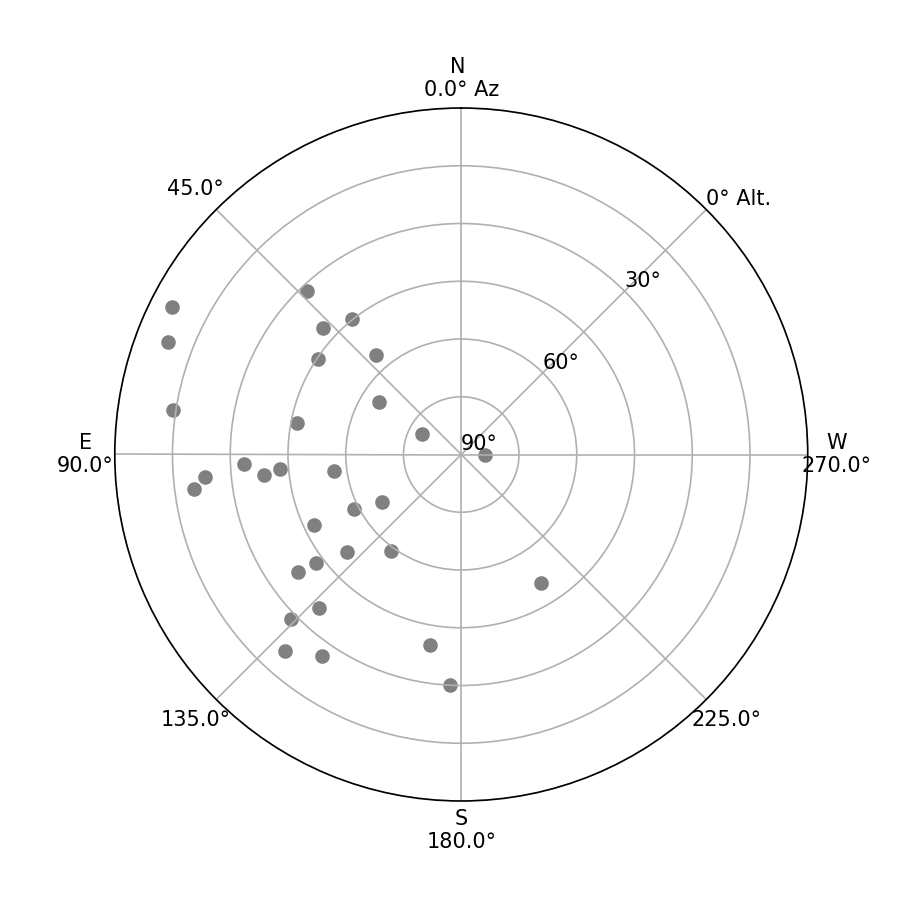
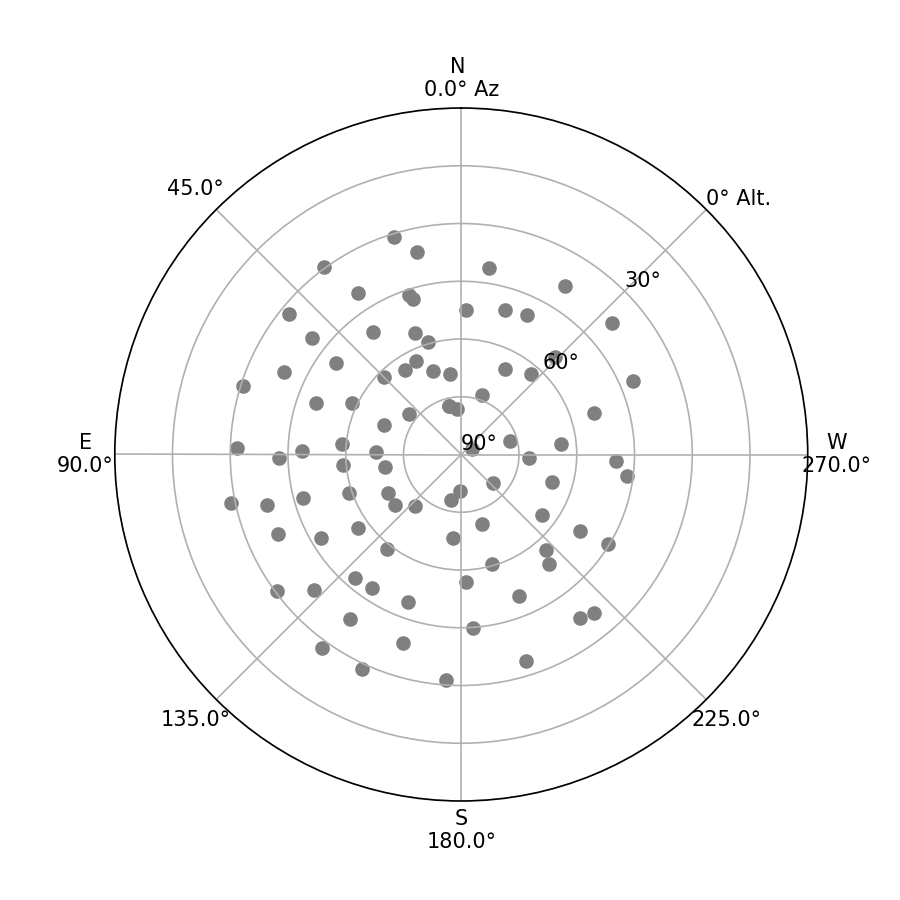
v2.1.1

diff --git a/src/tel_analysis/plot/plot.py b/src/tel_analysis/plot/plot.py
@@ -12,17 +12,20 @@ from astroplan import FixedTarget
 from astroplan.plots import plot_sky
 
 
-def plot_stars(bin_stars, star_map, altaz_coords, obs_time, az_bin, alt_bin):
+def plot_stars(df, bin_stars, star_map, altaz_coords, obs_time, az_bin, alt_bin):
     """plot the selected stars"""
 
     img_dir = "tel_analysis_gif"
     os.makedirs(img_dir, exist_ok=True)
     salt = Observer.at_site("SALT")
 
+    targets = [FixedTarget(coord=SkyCoord(ra=ra, dec=dec, unit=(u.deg, u.deg))) for ra, dec in zip(df.ra, df.dec)]
+
     plt.figure(figsize=(6, 6))
     selected_star = bin_stars.nlargest(1, "ra").iloc[0]
     coords_for_plot = SkyCoord(ra=selected_star['ra']*u.deg, dec=selected_star['dec']*u.deg, frame='icrs')
-    plot_sky(coords_for_plot, salt, obs_time, style_kwargs={'marker': 'o', 'color': 'gray'})
+    plot_sky(coords_for_plot, salt, obs_time, style_kwargs={'marker': 'o', 'color': 'C0'}) # selected star
+    plot_sky(targets, salt, obs_time, style_kwargs={'marker': '.', 'alpha': 0.3, 'color': 'gray'}) # all stars
     plt.title(f"UTC {obs_time}", fontsize=14)
     plt.savefig(f"./tel_analysis_gif/selected_star_{az_bin}{alt_bin}.png", dpi=200)
     plt.close()
@@ -39,7 +42,7 @@ def make_gif(time_str, nbins_alt, nbins_azi):
             if os.path.exists(file_path):
                 img = Image.open(file_path)
                 image_list.append(img)
-    image_list[0].save('./tel_analysis_gif/selected_star.gif',save_all=True, append_images=image_list[1:],optimize=True, duration=300, loop=0)
+    image_list[0].save('./tel_analysis_gif/selected_star.gif',save_all=True, append_images=image_list[1:],optimize=True, duration=350, loop=0)
 
 def plot_all_stars(df, time_str):
     """plot all selected stars"""

diff --git a/tel_analysis.py b/tel_analysis.py
@@ -57,7 +57,7 @@ def main(time_str, interval=30, mag=6, nbins_alt=5, nbins_azi=20):
                     star_map = add_star(start_bin_stars, star_map, start_altaz_coords, start_alt_bin, start_az_bin)
 
                     # plot star in this area
-                    # plot_stars(start_bin_stars, star_map, start_altaz_coords, obs_time, az_bin, alt_bin)
+                    # plot_stars(df_tmp, start_bin_stars, star_map, start_altaz_coords, obs_time, az_bin, alt_bin)
 
             # the other areas
             else:
@@ -71,7 +71,7 @@ def main(time_str, interval=30, mag=6, nbins_alt=5, nbins_azi=20):
                     star_map = add_star(other_bin_stars, star_map, new_altaz_coords, alt_bin, az_bin)
 
                     # plot star in this area
-                    # plot_stars(other_bin_stars, star_map, start_altaz_coords, obs_time, az_bin, alt_bin)
+                    # plot_stars(df_tmp, other_bin_stars, star_map, start_altaz_coords, obs_time, az_bin, alt_bin)
 
     target_data = make_dataframe(nbins_alt, nbins_azi, star_map, altitude_bins, azimuth_bins)
     target_data.to_csv(f"./output/script_tmp.txt", index=True, header=False, index_label='id')
